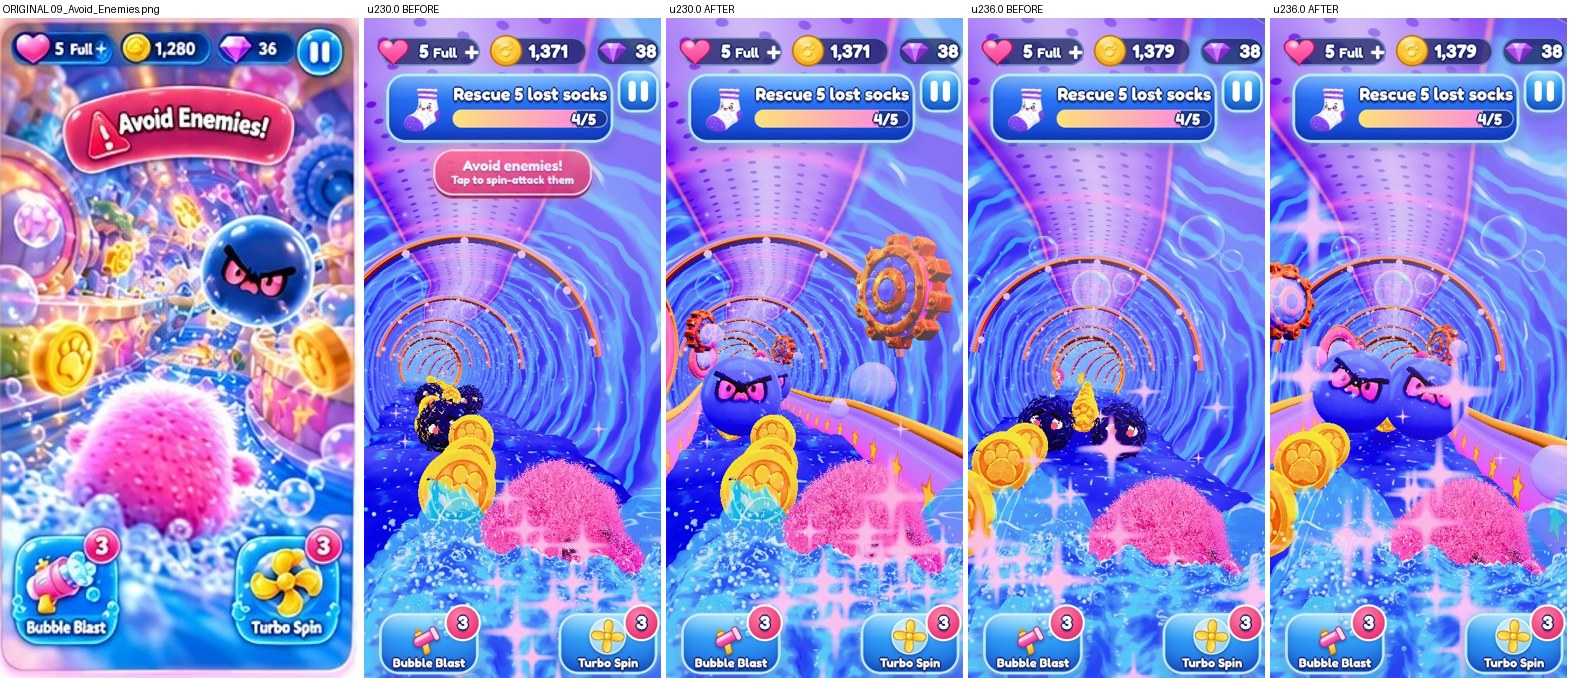
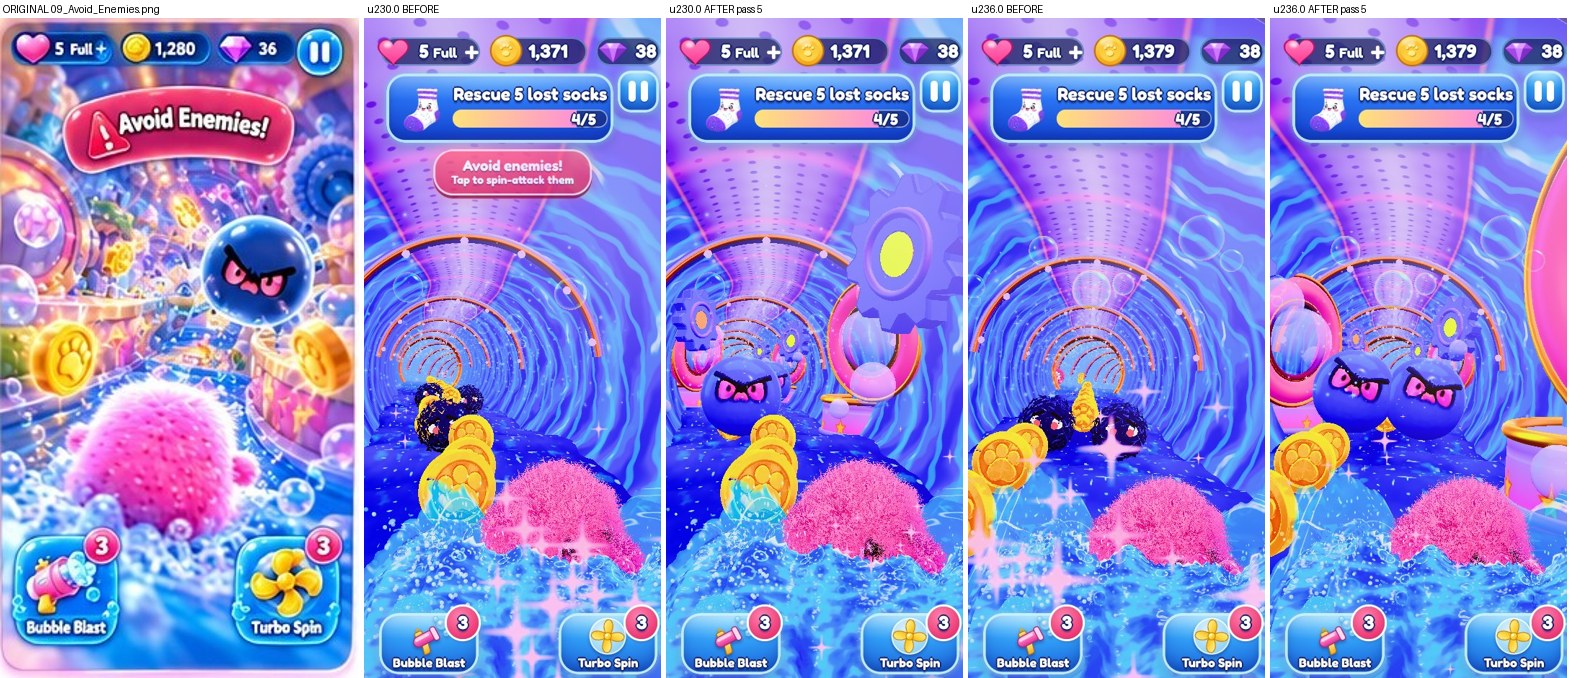
Paused at the user's request: scene07 pass 5 (opt-in, in progress; identity proofs partly run: accepted and normal game 0 px)
Claude-Session: https://claude.ai/code/session_013kxR3NgrYJJC9HLHZ7n41J

diff --git a/Previews/WebDemo/screen4_round9_match/74_scene07_avoid_enemies/README.md b/Previews/WebDemo/screen4_round9_match/74_scene07_avoid_enemies/README.md
@@ -15,12 +15,19 @@ Code: `WebDemo/src/tripo_l1.js` (`SCENE07`, `buildArchitecture`, `applyScene07`)
    curve, u 216-268); thick PINK PORTHOLE RINGS with gold rims and an iridescent bubble inside on the upper left wall; gears high on the
    walls; big iridescent bubbles. Plus `tripo1` v2 (the floating Tripo enemy, `72_tripo1_enemy/`).
 
-## Checklist: the original's objects (the kit's annotations 1-6) in the game now
+5. **current** (the user's review of pass 4; `frames/pass5/`, `01_original_before_after.jpg`, `02_original_before_pass4_pass5.jpg`): the
+   copper gear and the straight channel walls REMOVED; ROUND pink-lavender star ENCLOSURES with gold rims at the water's edge, alternating
+   sides (kit crop 10); larger pink PORTHOLE rings on BOTH upper walls (crop 09), covering more of the plain tube; BLUE GEARS built in
+   three.js (blue teeth, lavender ring, gold hub) in place of the copper `gear.glb`; the game's particle bursts at 55 % size only while
+   the camera is in this stretch (fewer large white stars over the blue water; the exact previous size restored outside). Gameplay
+   identical (`proofs/route_upper_scene07_pass5.json.log`), no console errors.
+
+## Checklist: the original's objects (the kit's annotations 1-6) in the game now (pass 5)
 | # | Original | In the game (pass 4) | Status |
 |---|---|---|---|
-| 1 | left: big pink porthole ring with a bubble, gold rims; colourful platforms | pink porthole rings with gold rims and a bubble on the upper left wall (u 233, 251) | PARTLY: visible at u 230 top left; smaller and higher than the board's; the left channel wall barely shows |
+| 1 | left: big pink porthole ring with a bubble, gold rims; colourful platforms | pink porthole rings with gold rims and a bubble on both upper walls (6), round star enclosures | CLOSER: the rings read; the board's ring is lower and larger at the left edge |
 | 2 | glossy navy enemy floating, angry pink eyes | the Tripo enemy floating clear of the water, glossy, halo (`tripo1` v2) | CLOSER: still left of centre and lower than the board's, and more violet than navy |
-| 3 | right: round pink / gold side enclosure with stars, blue machinery | the right channel wall: pink-lavender, yellow stars, gold rail, curving into the distance | CLOSER: lower than the board's wall, which rises to about two thirds of the screen height at the right edge |
+| 3 | right: round pink / gold side enclosure with stars, blue machinery | round pink-lavender star enclosures with gold rims (7, alternating sides); blue gears high | CLOSER: the board's enclosure is taller and nearer at the right edge; the gears read periwinkle, not the board's deep blue |
 | 4 | the mascot ON saturated blue water, restrained splashes | unchanged (the accepted mascot and Level 1 water) | NOT CHANGED in this pass |
 | 5 | large gold paw coins framing the path | unchanged (the game's coins, in their lanes) | NOT CHANGED: the board's coins sit higher and at the sides |
 | 6 | pink curved "Avoid Enemies!" banner | the game's smaller "Avoid enemies! Tap to spin-attack them" banner | NOT CHANGED |
@@ -28,9 +35,10 @@ Code: `WebDemo/src/tripo_l1.js` (`SCENE07`, `buildArchitecture`, `applyScene07`)
 ## Remaining differences (honest)
 - The blue swirl TUBE still dominates the middle of the screen; the board shows an open, deep corridor of machinery, coins and lights.
   The tube and the course belong to `level1.js` (session `b0abcf95`'s file: roof2 is its candidate for the upper tunnel).
-- The walls should be taller and the left one more visible; the gears read orange-copper (their texture's gold under the grade).
+- The enclosures should be taller and nearer the screen edges; the gears read periwinkle under the tunnel's purple light (the board: deep blue).
+- The mascot's silhouette is the accepted one (not changed: the Screen 4 baseline is the user's first priority after the opening).
 - The water, the coins' placement and the banner are not changed yet.
-- Mobile cost: pass 4 adds 2 walls, 2 rails, 3 portholes, 4 gears (18,748 triangles each, drawn only within 34 m) and 18 bubbles.
+- Mobile cost: pass 5 adds 7 enclosures, 6 portholes, 5 gears (procedural, a few thousand triangles each, drawn only within 34 m) and 18 bubbles.
 
 ## Proofs
 - Gameplay: the route with `tripo1,scene07` has the identical event log and identical states (through Level Complete) as without
